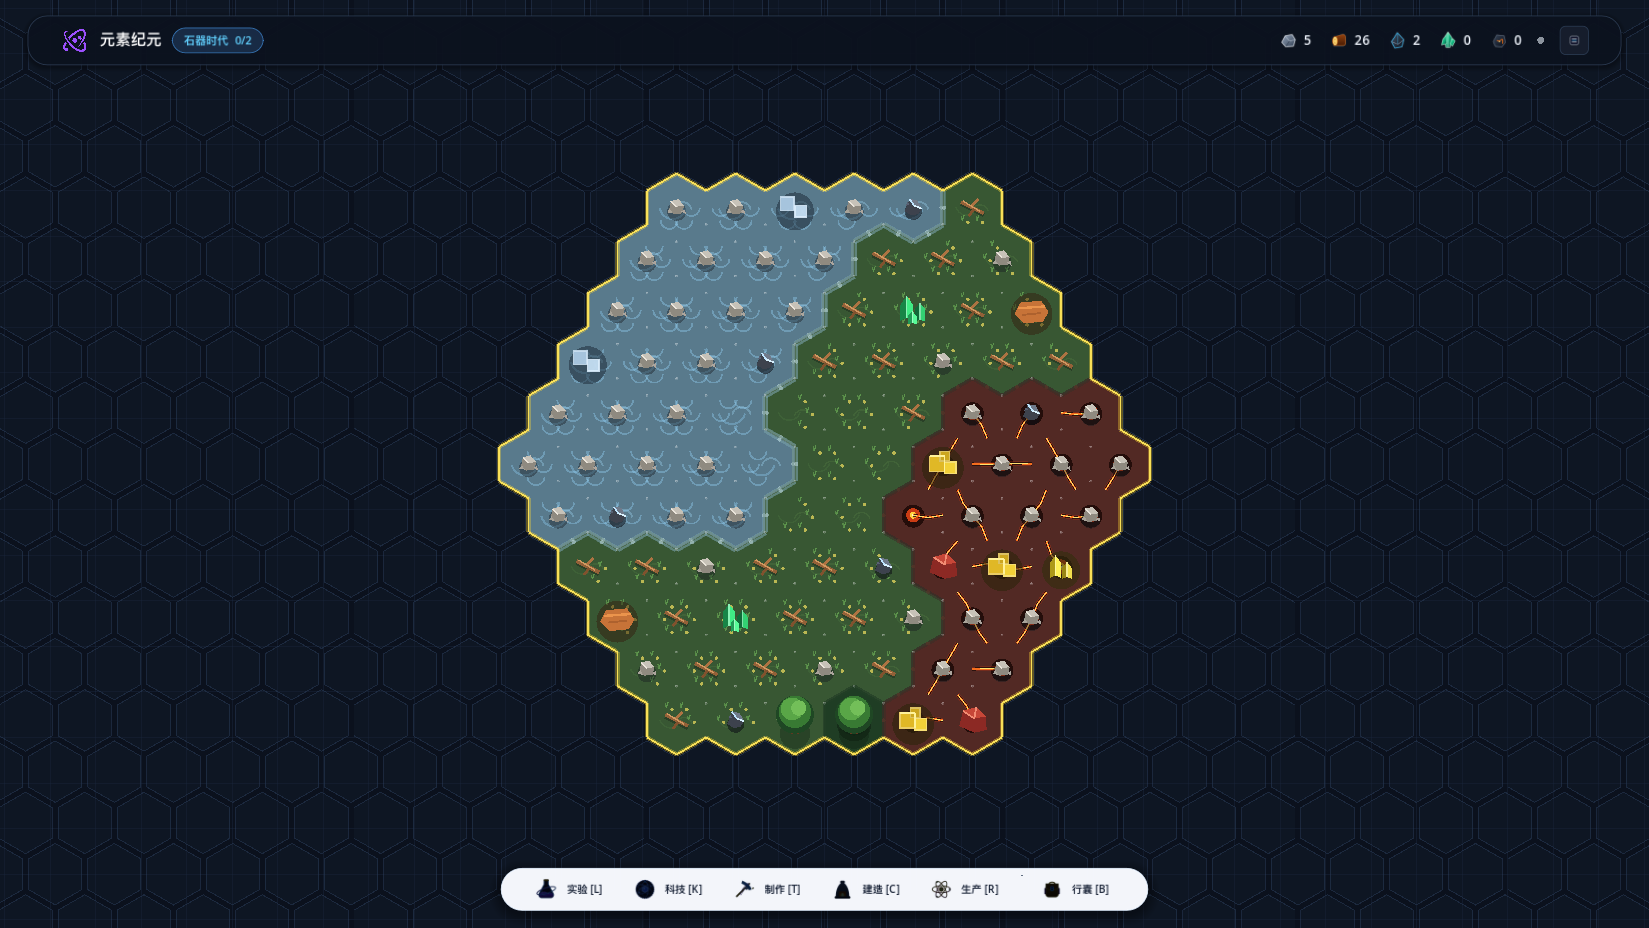
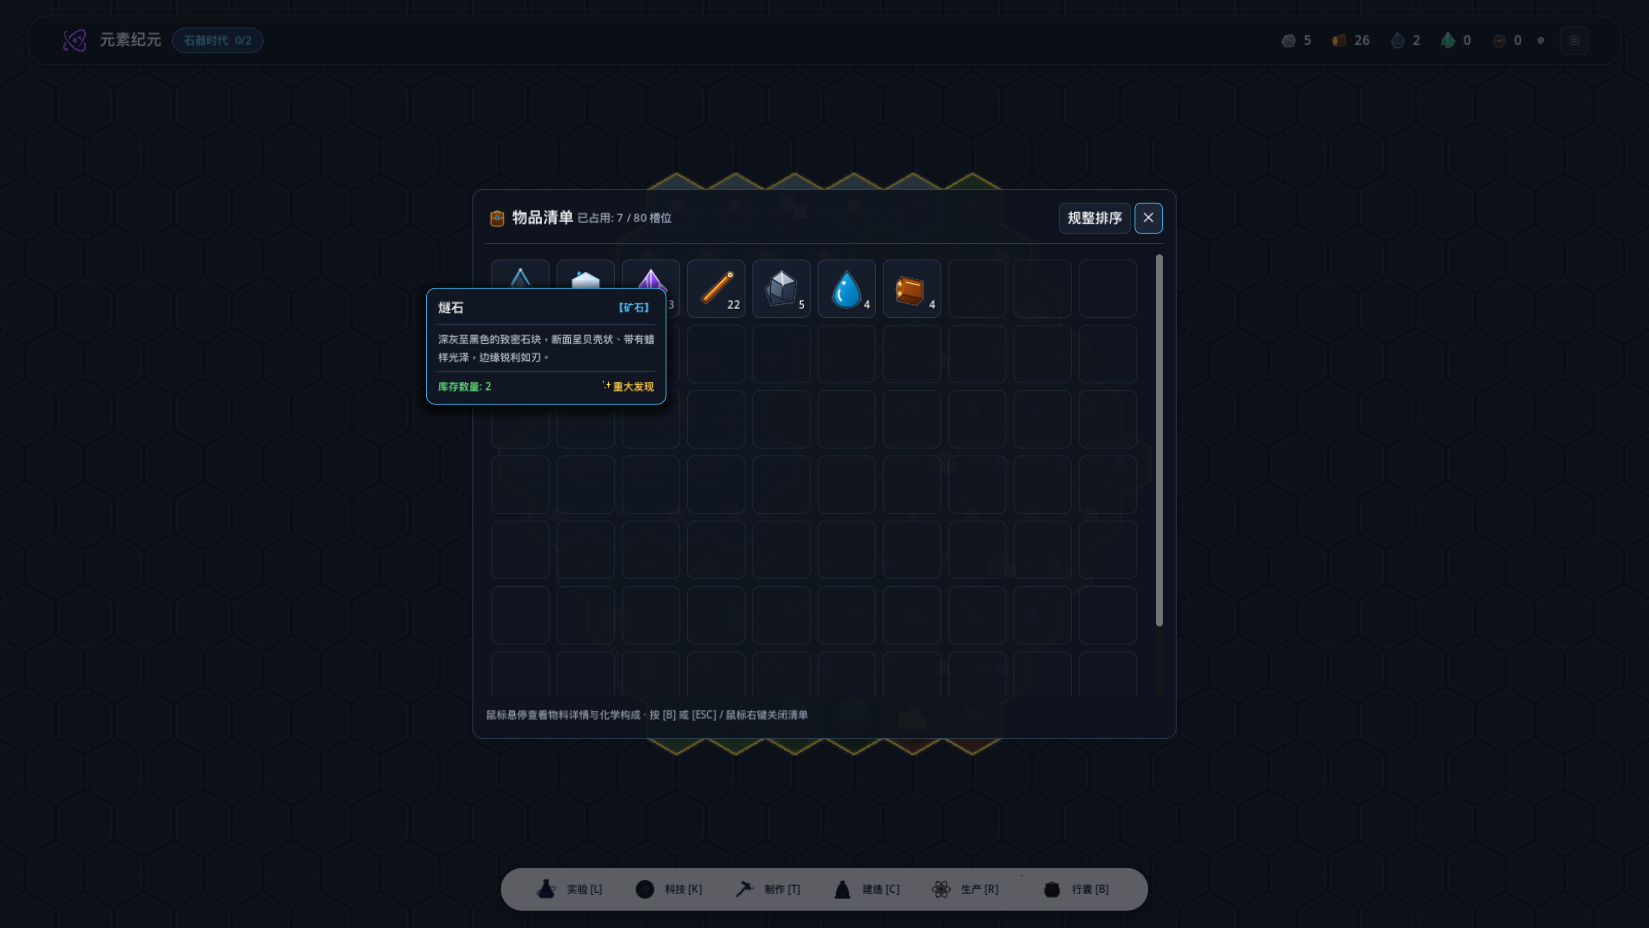
fix(inventory): fix blank item tooltip caused by autowrap width collapse and add viewport clamping

diff --git a/AGENTS.md b/AGENTS.md
@@ -536,6 +536,20 @@
    - 顶栏圆角胶囊半径调整为 22px，上下边距调整至 6px，左右边距调整至 20px；
    - 系统菜单按钮由 28×28 放大至 **34×34 px**，保存指示点同步微调至 10×10 px。
 
+### 2.24 背包物品悬停详情卡片排版防溢出与自适应修复 (2026-10-05)
+
+针对用户反馈「背包鼠标移动上去显示空白」的严重显示 Bug 进行根因排查与全链路重构：
+
+1. **根因定位与排版计算陷阱消除**：
+   - **自动换行宽度坍塌 (Autowrap Width Collapse)**：浮动详情面板 `FloatingTooltip` 内的描述文本 `DescLabel` 启用了 `autowrap_mode = 3 (AUTOWRAP_WORD_SMART)`，但在 Godot 4 的流式布局中未指定明确的横向最小尺寸约束（`custom_minimum_size.x = 0`），导致容器测量时将其计算为单字宽度的极端竖列（宽度 1px，单字折行纵向膨胀至高达 **766 px**）。
+   - **视口翻转导致全内容溢出屏幕顶端**：由于测量高度超高（766px > 视口高度余量），浮动卡片自适应翻转计算触发向上偏移 `mpos.y - tip_size.y - 16`，导致全局位置 `target_pos.y` 直接被推移至屏幕外顶端（负数坐标 y < -450），使得卡片上部的主文字（名称、分类、化学构成、描述）全部处于视口外不可见区域，画面上仅露出了卡片底部的空白区域。
+
+2. **精细化布局尺寸与防越界钳制重构 (`inventory_modal.gd` & `inventory_modal.tscn`)**：
+   - **固定文本安全换行基准**：为浮动卡片设置 `custom_minimum_size = Vector2(280, 0)`，并为 `DescLabel` 显式注入安全排版宽度 `custom_minimum_size = Vector2(252, 0)`，多行描述文字自然折叠为舒适的 2~3 行紧凑结构（总高度降至 110~130px）。
+   - **纯色深底与电光青辉光**：卡片底板由带透明度的磨砂质感升级为 `ThemeStyler.COLOR_BG_SOLID`（纯色深底 #111722），杜绝底层槽位透光穿帮，叠加 14px 柔和阴影与青蓝边缘。
+   - **严格视口边界钳制 (Viewport Clamping)**：重写 `_update_tooltip_position()`，不仅计算翻转，还强制施加 `clampf(target_pos.x, 16.0, vp_size.x - tip_size.x - 16.0)` 与 `clampf(target_pos.y, 16.0, vp_size.y - tip_size.y - 16.0)`，彻底杜绝任何情况下飞出屏幕顶部或被边缘裁切的可能。
+   - **实时尺寸重测机制**：在 `_show_tooltip_for_item()` 填充数据后同步调用 `floating_tooltip.reset_size()`，确保不同长短文本切换时卡片尺寸瞬时自适应收缩。
+
 ---
 
 ## 3. 架构设计规范与数据流动
